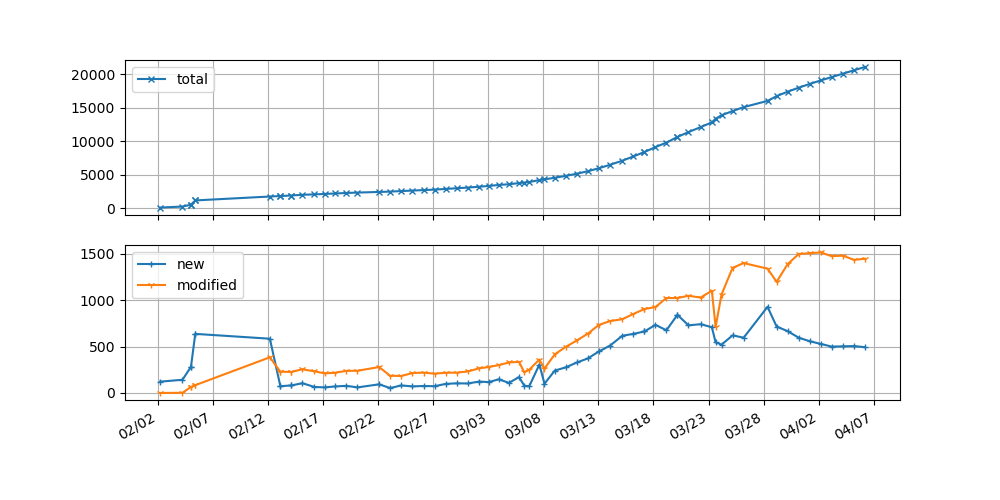
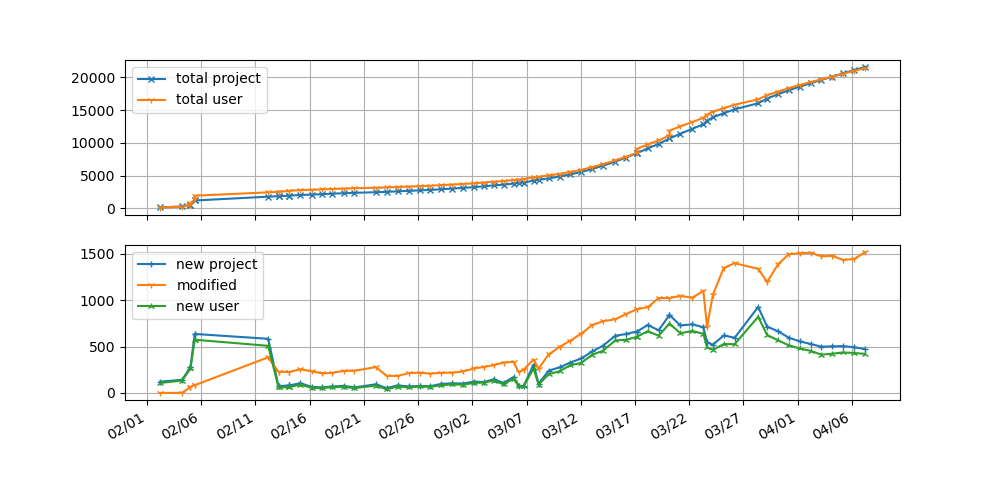
Add user count plot, obviously there are some bugs in my code.

diff --git a/trend_plot.py b/trend_plot.py
@@ -7,12 +7,19 @@ import matplotlib.dates as mdates
 getdir = os.path.dirname(os.path.abspath(inspect.stack()[0][1]))  # http://stackoverflow.co>
 os.chdir(getdir)
 
-completed_process = subprocess.run("git log --stat Wuhan_nCoV_Github_Project_list.csv | grep Date:", shell=True, stdout=subprocess.PIPE)
+completed_process = subprocess.run("git log --stat Wuhan_nCoV_Github_Project_list.csv | \
+        grep Date:", shell=True, stdout=subprocess.PIPE)
 date_list = completed_process.stdout.decode("utf-8").split('\n')
-completed_process = subprocess.run("git log --stat Wuhan_nCoV_Github_Project_list.csv | grep changed", shell=True, stdout=subprocess.PIPE)
+completed_process = subprocess.run("git log --stat Wuhan_nCoV_Github_Project_list.csv | \
+        grep changed", shell=True, stdout=subprocess.PIPE)
 line_changed_list = completed_process.stdout.decode("utf-8").split('\n')
+completed_process = subprocess.run("git log -p Wuhan_nCoV_Github_Project_list.csv | \
+        grep ^+", shell=True, stdout=subprocess.PIPE)
+project_meta_list = completed_process.stdout.decode("utf-8").split('+++')
 
 new_modified_list = []
+user_list = []
+new_user_count_list = []
 total_line_count = 0
 for line in line_changed_list[0:-1][::-1]:
     line = line.split()
@@ -32,17 +39,40 @@ for line in line_changed_list[0:-1][::-1]:
         total_line_count -= deletions
         new_modified_list.append([total_line_count, 0, 0])
 
+for line in project_meta_list[1:][::-1]:
+    user_count = 0
+    project_list = line.strip().split('\n')[1:]
+    for project in project_list:
+        try:
+            user_name = project.split('\t')[1].split('/')[3]
+            if user_name not in user_list:
+                user_count += 1
+                user_list.append(user_name)
+        except Exception as err:
+            pass
+    if user_count == 0 and len(line.split('\n')) == 1:
+        continue
+    else:
+        new_user_count_list.append(user_count)
+
+# weird data, cause needs further investigation, temporarily regarded as noise
+new_user_count_list[38] += new_user_count_list[37]
+del(new_user_count_list[37])
+
 x = [datetime.strptime(d, 'Date:   %a %b %d %H:%M:%S %Y %z') for d in date_list[0:-1][::-1]]
 y0 = [i[0] for i in new_modified_list]
 y1 = [i[1] for i in new_modified_list]
 y2 = [i[2] for i in new_modified_list]
+y3 = new_user_count_list
 
 def mergeToNext(i):
     x[i] = x[i + 1]
     y0[i] = y0[i + 1]
     y1[i + 1] += y1[i]
+    y3[i + 1] += y3[i]
     y1[i] = y1[i + 1]
     y2[i] = y2[i + 1]
+    y3[i] = y3[i + 1]
 # noise
 mergeToNext(9) # y2[9] = 1834 = y0[8]
 mergeToNext(2) # y1[2:4] = [2, 279]
@@ -56,15 +86,23 @@ def removeNoise(y):
             x[index] = x[index - 1]
 removeNoise(y1)
 removeNoise(y2)
+removeNoise(y3)
+
+total_user_count_list = [y3[0]]
+for i in y3[1:]:
+    total_user_count_list.append(total_user_count_list[-1] + i)
+y4 = total_user_count_list
 
 fig, ax_list = plt.subplots(2, figsize=(10,5))
 
 for index, ax in enumerate(ax_list):
     if index == 0:
-        ax.plot(x, y0, label='total', marker='x', markersize=5)
+        ax.plot(x, y0, label='total project', marker='x', markersize=5)
+        ax.plot(x, y4, label='total user', marker='1', markersize=5)
     else:
-        ax.plot(x, y1, label='new', marker='+', markersize=5)
+        ax.plot(x, y1, label='new project', marker='+', markersize=5)
         ax.plot(x, y2, label='modified', marker='1', markersize=5)
+        ax.plot(x, y3, label='new user', marker='2', markersize=5)
     ax.legend(loc='upper left')
     ax.grid()
     ax.xaxis.set_major_formatter(mdates.DateFormatter('%m/%d'))
